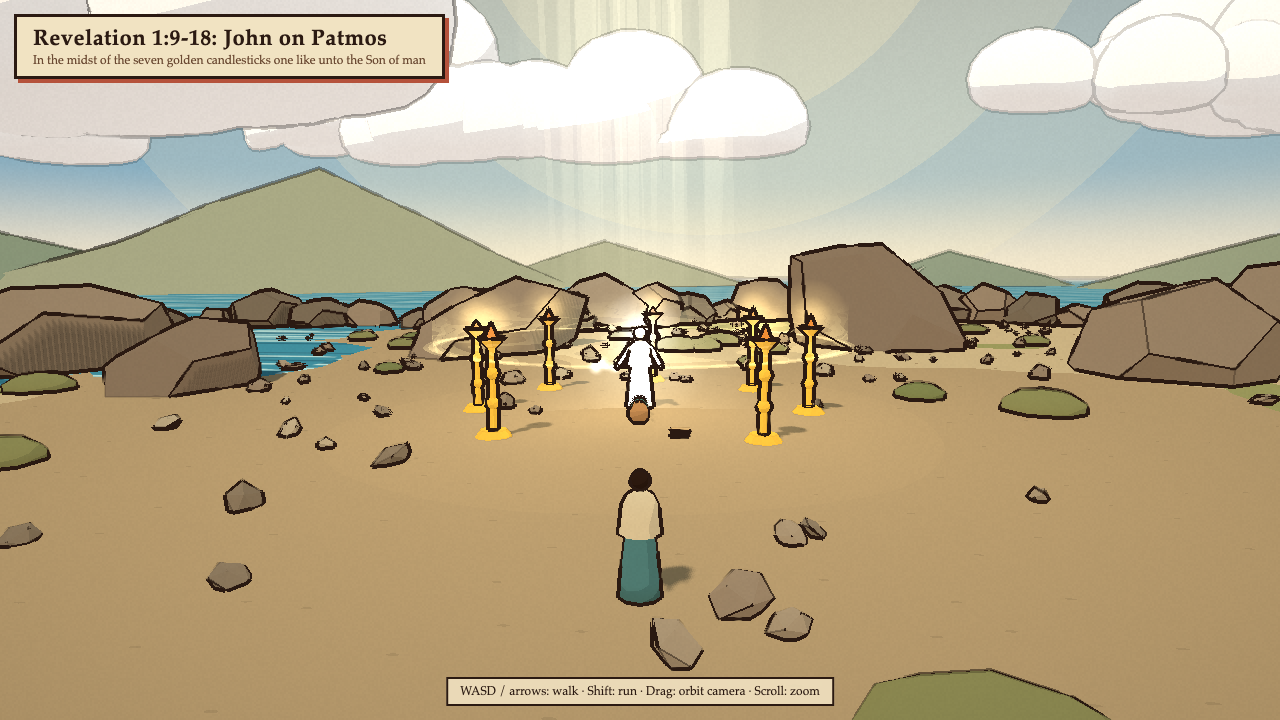
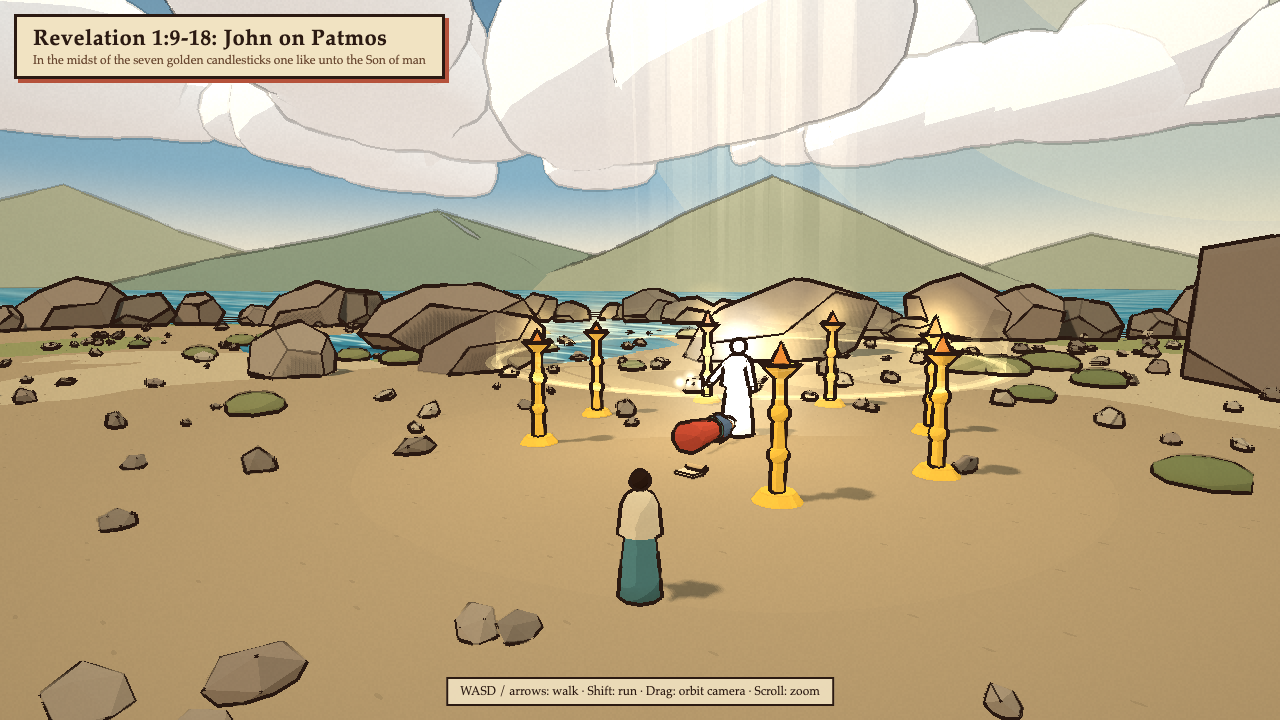
feat: polish toon scenes nt-32 to nt-38

diff --git a/styles/toon/scenes/nt-36.js b/styles/toon/scenes/nt-36.js
@@ -11,11 +11,11 @@ const ACRO = [70, -150];
 
 function drop(x, z) {
   const d = Math.hypot(x, z);
-  return THREE.MathUtils.smoothstep(d, TOP - 2, TOP + 26) * 24;
+  return THREE.MathUtils.smoothstep(d, TOP - 2, TOP + 16) * 9 - THREE.MathUtils.smoothstep(d, 90, 230) * 5;
 }
 function acro(x, z) {
   const d = Math.hypot(x - ACRO[0], (z - ACRO[1]) * 1.8);
-  return (1 - THREE.MathUtils.smoothstep(d, 62, 80)) * 40;
+  return (1 - THREE.MathUtils.smoothstep(d, 62, 80)) * 28;
 }
 
 export default {
@@ -57,7 +57,7 @@ export default {
     for (let i = 0; i < 64; i++) {
       const a = (i / 64) * Math.PI * 2;
       const r = TOP - 1 + Math.sin(i * 1.7) * 1.5;
-      rim.push([Math.sin(a) * r, Math.cos(a) * r, 0.8 + ((i * 7) % 5) * 0.2]);
+      rim.push([Math.sin(a) * r, Math.cos(a) * r, 0.45 + ((i * 7) % 5) * 0.1]);
       ctx.addCollider({ x: Math.sin(a) * (TOP + 1), z: Math.cos(a) * (TOP + 1), hx: 2.6, hz: 2.6, rot: -a, top: 40 });
     }
     boulders(ctx, rim, { colors: ['#bfb39a', '#ada088', '#c9bea6'], collide: false, seed: 11 });
@@ -69,7 +69,7 @@ export default {
       b.add('#cdbfa4', box(w, h, d, [PAUL[0], py + h / 2 - 0.05, PAUL[1] + z]));
       ctx.addCollider({ x: PAUL[0], z: PAUL[1] + z, hx: w / 2, hz: d / 2, rot: 0, top: py + h - 0.05, walkable: true });
     }
-    const paul = person(ctx, { pos: PAUL, y: py + 1.45, face: [0, 6], scale: 1.05, colors: { robe: '#d9c7a3', mantle: '#8c5a3c', skin: '#a8724a', hair: '#3a2418', sash: '#5e4632', arms: [0.4, 0.3] } });
+    const paul = person(ctx, { pos: PAUL, y: py + 1.45, face: [0, 6], scale: 1.3, colors: { robe: '#d9c7a3', mantle: '#8c5a3c', skin: '#a8724a', hair: '#3a2418', sash: '#5e4632', arms: [0.4, 0.3] } });
     const arm = new THREE.Group();
     arm.position.set(-0.2, 1.32, 0);
     const sleeve = new THREE.Mesh(new THREE.CapsuleGeometry(0.07, 0.42, 4, 8), kit.toon('#8c5a3c'));
@@ -90,7 +90,7 @@ export default {
     for (const sx of [-1, 1]) b.add('#e8e0cc', cyl(0.16, 0.16, 1.2, [sx * 0.62, 1.66, 0], [Math.PI / 2, 0, 0], 10), { frame: af });
     ctx.addCollider({ x: ALTAR[0], z: ALTAR[1], hx: 0.9, hz: 0.7, rot: -0.3, top: ay + 1.6 });
     ctx.exclude({ kind: 'circle', x: ALTAR[0], z: ALTAR[1], r: 1.6 });
-    const tex = textTexture(['ΑΓΝΩΣΤΩ ΘΕΩ', 'TO THE UNKNOWN GOD'], { w: 512, h: 256, bg: '#efe8d6', fg: '#4a3420', font: 'bold 50px serif' });
+    const tex = textTexture(['ΑΓΝΩΣΤΩ ΘΕΩ', 'TO THE UNKNOWN GOD'], { w: 512, h: 256, bg: '#efe8d6', fg: '#4a3420', font: 'bold 40px serif' });
     const plate = new THREE.Mesh(new THREE.PlaneGeometry(1.3, 0.65), kit.toon('#ffffff', { map: tex }));
     plate.position.set(0, 0.82, 0.51);
     const altarGroup = new THREE.Group();
@@ -176,7 +176,7 @@ export default {
   },
 
   player: {
-    start: [3.2, 15.5],
+    start: [3, 12.5],
     lookAt: [1.5, -6],
     colors: { robe: '#4f7f80', mantle: '#d9c7a3', skin: '#a8724a', hair: '#2b1a12', sash: '#c8912e' },
   },

diff --git a/styles/toon/scenes/nt-32.js b/styles/toon/scenes/nt-32.js
@@ -40,13 +40,13 @@ export default {
     boulders(ctx, [[-14, 6, 1.4], [-17, 9, 0.8], [15, -8, 1.8], [18, -4, 1], [-22, -26, 2.2], [26, 22, 1.6], [-28, 34, 1.2], [36, -40, 2.4], [-40, -60, 2.8], [12, 40, 0.9]], { colors: ['#c9a982', '#b89a78', '#d2b48e'] });
 
     // Saul fallen on his face in the road, his travelling bag spilled beside him.
-    fallen(ctx, { pos: SAUL, toward: [0.4, -3], colors: { robe: '#4f6f8a', mantle: '#8c5a3c', skin: '#b5825a', hair: '#2b1a12', sash: '#c8912e', arms: [1.2, 0.2] } });
+    fallen(ctx, { pos: SAUL, toward: [-3, -0.6], scale: 1.3, colors: { robe: '#2f4f74', mantle: '#7a3e2c', skin: '#b5825a', hair: '#2b1a12', sash: '#c8912e', arms: [1.2, 0.2] } });
     boulders(ctx, [[1.4, 1.2, 0.25]], { colors: ['#8c5a3c'], collide: false });
 
     // The men journeying with him stand speechless, shielding their eyes.
     const companions = [
       { pos: [-4.2, 4.5], arms: [0.3, 2.3], robe: '#7a6a52', mantle: '#5e4632' },
-      { pos: [-2.4, 6.8], arms: [0.5, 1.6], robe: '#a87b4f', mantle: '#3e6e66' },
+      { pos: [-4.8, 7.6], arms: [0.5, 1.6], robe: '#a87b4f', mantle: '#3e6e66' },
       { pos: [3.6, 5.2], arms: [0.25, 2.5], robe: '#8c5a3c', mantle: '#d9c7a3' },
       { pos: [5.6, 3.0], arms: [0.9, 0.6], robe: '#6f8a6a', mantle: '#5e4632' },
       { pos: [1.2, 8.4], arms: [0.3, 2.2], robe: '#c8a97a', mantle: '#a64b35' },
@@ -76,18 +76,18 @@ export default {
 
   light: {
     beams: [{ from: [0, 200, -4], to: { at: SAUL, lift: 0.3 }, width: [18, 6], color: '#fffdf0', intensity: 0.32, layers: 3, stripes: 26, fadeLow: 0.04 }],
-    rings: [{ at: SAUL, lift: 0, radius: 4.2, width: 0.4, height: 3.5, color: '#fff3c0', intensity: 0.9, wallIntensity: 0.6 }],
+    rings: [{ at: SAUL, lift: 0, radius: 4.2, width: 0.4, height: 2.5, color: '#fff3c0', intensity: 0.8, wallIntensity: 0.25 }],
     glows: [
-      { at: SAUL, lift: 1.2, size: 8, color: '#fffbe8', opacity: 0.55 },
+      { at: SAUL, lift: 1.6, size: 6, color: '#fffbe8', opacity: 0.3 },
       { pos: [0, 120, -5], size: 140, color: '#fffbe8', opacity: 0.9 },
       { pos: [0, 120, -5], size: 50, color: '#ffffff', opacity: 1 },
     ],
-    pointLights: [{ at: SAUL, lift: 3, color: '#fff2c8', intensity: 8, distance: 18 }],
+    pointLights: [{ at: SAUL, lift: 3, color: '#fff2c8', intensity: 4, distance: 18 }],
   },
 
   player: {
-    start: [-3, 22],
-    lookAt: [0, -4],
+    start: [-2.2, 13],
+    lookAt: [0.4, -2],
     colors: { robe: '#b5523b', mantle: '#d9c7a3', skin: '#a8724a', hair: '#2b1a12', sash: '#c8912e' },
   },
 };

diff --git a/styles/toon/scenes/nt-35.js b/styles/toon/scenes/nt-35.js
@@ -95,8 +95,8 @@ export default {
     b.add(wood, box(5.4, 0.08, 0.32, [0.2, 0.08, -12.35], [0, 0.08, 0]));
     for (const sx of [-1, 1]) b.add('#4a3020', box(0.24, 0.5, 0.4, [sx * 2.8, 0.25, -12.9]));
     ctx.addCollider({ x: 0, z: -12.9, hx: 2.9, hz: 0.3, rot: 0, top: 0.5 });
-    const paul = person(ctx, { pos: PAUL, face: [-0.6, 0], colors: { robe: '#d9c7a3', mantle: '#8c5a3c', skin: '#a8724a', hair: '#3a2418', sash: '#5e4632', arms: [0.35, 2.3] }, kneel: true });
-    const silas = person(ctx, { pos: SILAS, face: [0.6, 0], colors: { robe: '#c8a97a', mantle: '#3e6e66', skin: '#9c6a45', hair: '#2b1a12', sash: '#c8912e', arms: [0.5, 1.9] }, kneel: true });
+    const paul = person(ctx, { pos: PAUL, scale: 1.15, face: [-0.6, 0], colors: { robe: '#d9c7a3', mantle: '#8c5a3c', skin: '#a8724a', hair: '#3a2418', sash: '#5e4632', arms: [0.35, 2.3] }, kneel: true });
+    const silas = person(ctx, { pos: SILAS, scale: 1.15, face: [0.6, 0], colors: { robe: '#c8a97a', mantle: '#3e6e66', skin: '#9c6a45', hair: '#2b1a12', sash: '#c8912e', arms: [0.5, 1.9] }, kneel: true });
     paul.rotation.x = silas.rotation.x = -0.18;
     lamp(b, ctx, { pos: [-3.4, -15.6], y: 1.6, light: { color: '#ffb060', intensity: 9, distance: 14 } });
     b.add(stoneDark, box(0.6, 0.12, 0.5, [-3.4, 1.55, -16.2]));
@@ -106,9 +106,9 @@ export default {
     scene.add(song);
 
     // The keeper of the prison springs in with a torch.
-    const jailer = person(ctx, { pos: [2.6, -3], face: [0, -12], colors: { robe: '#7a2a22', mantle: '#4a3020', skin: '#b5825a', hair: '#2b1a12', sash: '#c8912e', arms: [0.4, 1.3] } });
+    const jailer = person(ctx, { pos: [2.4, -8.6], face: [0, -12], colors: { robe: '#7a2a22', mantle: '#4a3020', skin: '#b5825a', hair: '#2b1a12', sash: '#c8912e', arms: [0.4, 1.3] } });
     jailer.rotation.x = 0.1;
-    torch(b, ctx, { pos: [3.2, -2.6], height: 1.6, light: { color: '#ffa850', intensity: 9, distance: 16 } });
+    torch(b, ctx, { pos: [3.0, -8.2], height: 1.6, light: { color: '#ffa850', intensity: 9, distance: 16 } });
     torch(b, ctx, { pos: [-8.3, -4], light: { color: '#ffa850', intensity: 6, distance: 12 } });
     torch(b, ctx, { pos: [8.3, -8], light: null });
     b.flush();
@@ -148,8 +148,8 @@ export default {
   },
 
   player: {
-    start: [0, 0.5],
-    lookAt: [0, -14],
+    start: [-1, -6.5],
+    lookAt: [0.8, -14],
     colors: { robe: '#4f7f80', mantle: '#5e4632', skin: '#a8724a', hair: '#2b1a12', sash: '#c8912e' },
   },
 };

diff --git a/styles/toon/scenes/nt-33.js b/styles/toon/scenes/nt-33.js
@@ -111,7 +111,7 @@ export default {
     for (const [x, z, s] of [[-20, -60, 3], [-14, -64, 2], [-26, -58, 1.6], [40, -70, 2.4]]) b.add('#8a8070', new THREE.DodecahedronGeometry(s, 0).scale(1.4, 1, 1).translate(x, -0.6 + s * 0.4, z));
 
     // Peter kneeling in prayer, looking up at the vision.
-    const peter = person(ctx, { pos: PETER, y: y0 + ROOF + 0.15, face: [SHEET[0], SHEET[1]], colors: { robe: '#e6d8b8', mantle: '#4f6fa0', skin: '#a8724a', hair: '#cfc6b4', sash: '#8c5a3c', arms: [0.6, 1.9] }, kneel: true });
+    const peter = person(ctx, { pos: PETER, scale: 1.3, y: y0 + ROOF + 0.15, face: [SHEET[0], SHEET[1]], colors: { robe: '#e6d8b8', mantle: '#4f6fa0', skin: '#a8724a', hair: '#cfc6b4', sash: '#8c5a3c', arms: [0.6, 1.9] }, kneel: true });
     peter.rotation.x = -0.15;
 
     // Cornelius's messengers arrive at the gate below.
@@ -199,9 +199,9 @@ export default {
   },
 
   player: {
-    start: [3.5, 3.6],
+    start: [3.8, 1.8],
     y: ROOF,
-    lookAt: [-0.5, -9],
+    lookAt: [-1.6, -9],
     colors: { robe: '#4f7f80', mantle: '#d9c7a3', skin: '#a8724a', hair: '#2b1a12', sash: '#c8912e' },
   },
 };

diff --git a/styles/toon/scenes/nt-38.js b/styles/toon/scenes/nt-38.js
@@ -138,7 +138,7 @@ export default {
     });
 
     // John, an old man in exile, fallen at his feet as dead.
-    fallen(ctx, { pos: JOHN, toward: LORD, colors: { robe: '#a87b4f', mantle: '#5e4632', skin: '#a8724a', hair: '#e8e2d4', sash: '#3e6e66' } });
+    fallen(ctx, { pos: JOHN, toward: LORD, scale: 1.25, colors: { robe: '#a8402e', mantle: '#4a5e7a', skin: '#a8724a', hair: '#f2eee4', sash: '#3e6e66' } });
     b.add('#d9c7a3', box(0.5, 0.06, 0.35, [JOHN[0] + 1.2, ctx.terrainHeight(...JOHN) + 0.03, JOHN[1] + 1.4]));
     b.add('#c8a97a', cyl(0.06, 0.06, 0.5, [JOHN[0] + 1.2, ctx.terrainHeight(...JOHN) + 0.1, JOHN[1] + 1.15], [0, 0, Math.PI / 2], 8));
     b.flush();
@@ -157,8 +157,8 @@ export default {
   },
 
   player: {
-    start: [1.2, 6.5],
-    lookAt: [0, -6],
+    start: [4.2, 2.4],
+    lookAt: [-2.2, -4.6],
     colors: { robe: '#4f7f80', mantle: '#d9c7a3', skin: '#a8724a', hair: '#2b1a12', sash: '#c8912e' },
   },
 };

diff --git a/styles/toon/scenes/nt-34.js b/styles/toon/scenes/nt-34.js
@@ -149,8 +149,8 @@ export default {
   },
 
   player: {
-    start: [3, 13],
-    lookAt: [-1.5, -8],
+    start: [2.4, 4],
+    lookAt: [0.2, -8],
     colors: { robe: '#4f7f80', mantle: '#5e4632', skin: '#a8724a', hair: '#2b1a12', sash: '#c8912e' },
   },
 };
